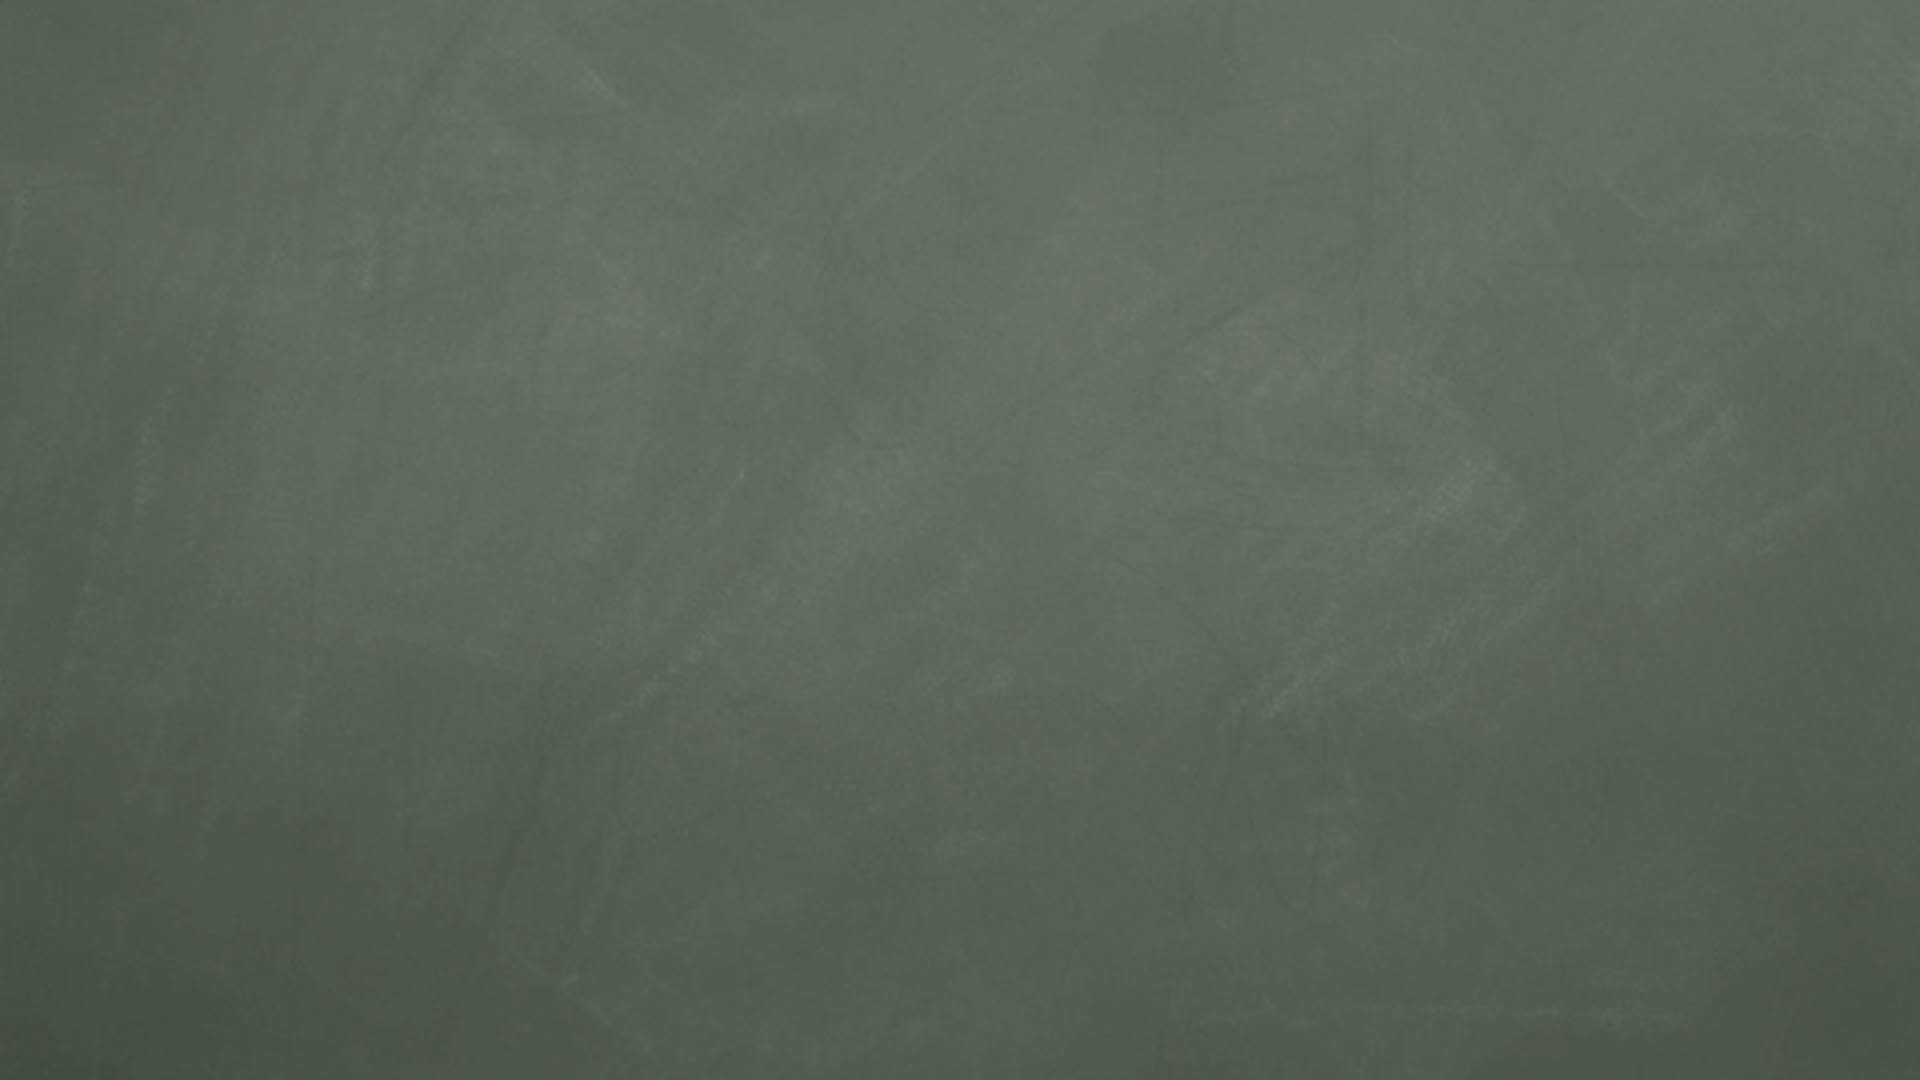
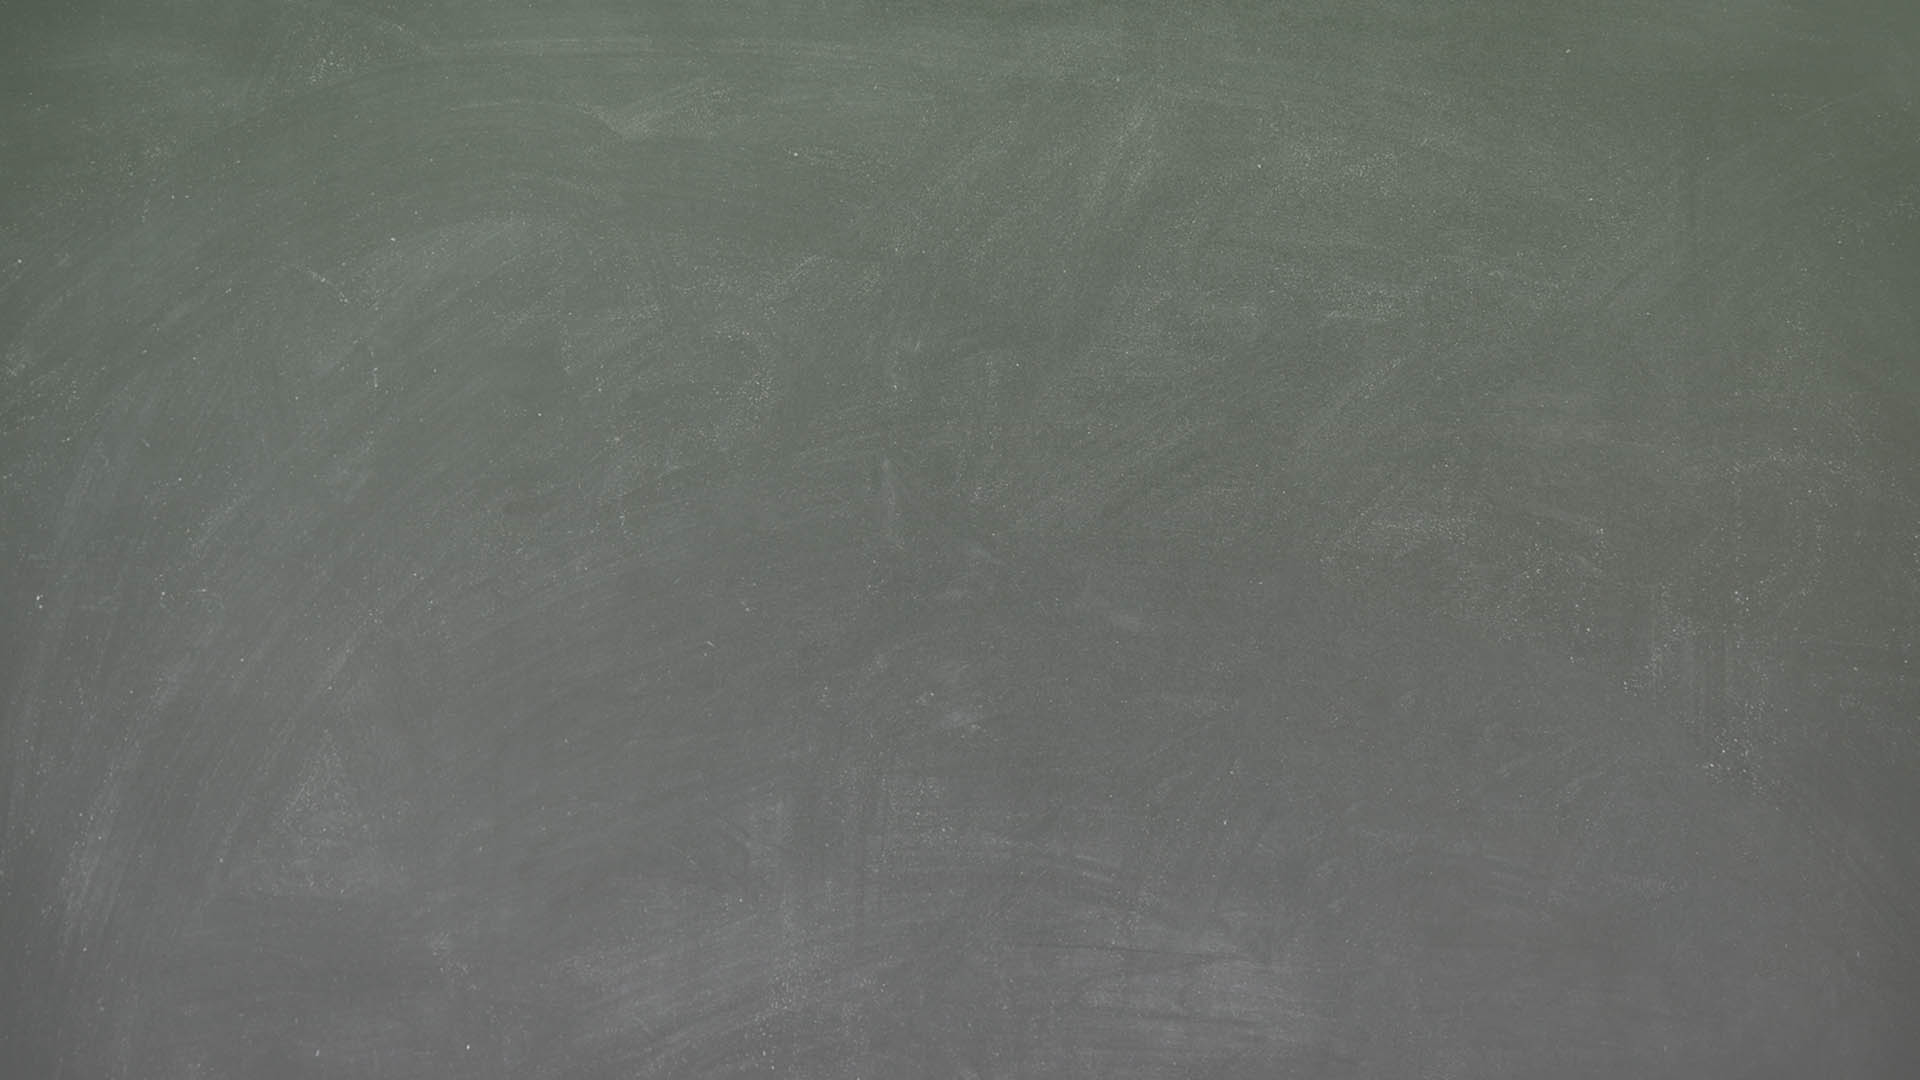
Changed background image. Changed footer text. Changed navbar color and thickness of list items. Changed font size to 5 and color to white. Added a transparent dark div to the homepage. Changed result table background color and transparency. Attempted navbar dropdown element.

Changed region(s): [[0.0, 0.4583, 1.0, 1.0], [0.0312, 0.4278, 0.0625, 0.4889], [0.4688, 0.6417, 0.5, 0.6722]]

diff --git a/templates/layout.html b/templates/layout.html
@@ -50,11 +50,12 @@
             </button>
             <div class="collapse navbar-collapse" id="navbar">
                     <ul class="navbar-nav mr-auto mt-2">
-                        <li class="nav-item"><a class="nav-link" href="/differentiation">Differentiation</a></li>
-                        <li class="nav-item"><a class="nav-link" href="/integration">Integration</a></li>
-                        <li class="nav-item"><a class="nav-link" href="/maxmin">Max/Min</a></li>
-                        <li class="nav-item"><a class="nav-link" href="/aprox">Linearization</a></li>
-                        <li class="nav-item"><a class="nav-link" href="/riemann">Riemann</a></li>
+						
+                        <li class="nav-item"><a class="nav-link" href="/differentiation"><b>Differentiation</b></a></li>
+                        <li class="nav-item"><a class="nav-link" href="/integration"><b>Integration</b></a></li>
+                        <li class="nav-item"><a class="nav-link" href="/maxmin"><b>Max/Min</b></a></li>
+                        <li class="nav-item"><a class="nav-link" href="/aprox"><b>Linearization</b></a></li>
+                        <li class="nav-item"><a class="nav-link" href="/riemann"><b>Riemann</b></a></li>
                     </ul>
                     <!-- <ul class="navbar-nav ml-auto mt-2">
                         <li class="nav-item"><a class="nav-link" href="/logout">Log Out</a></li>
@@ -80,7 +81,10 @@
         </main>
 
         <footer class="small text-center text-muted">
-            Huge thanks to the staff at Harvard's <a href="https://cs50.harvard.edu/college/">CS50</a>.
+			<font color="#212121">
+				<b>© 2020 TayMath - Created by TSB and <a href="https://twitter.com/ruhphorte" style="color:black" target="_blank">Ruh</a> -
+				Huge thanks to the staff at Harvard's <a href="https://cs50.harvard.edu/college/" style="color:black" target="_blank">CS50</a>.</b>
+			</font>
         </footer>
 
     </body>

diff --git a/templates/riemann.html b/templates/riemann.html
@@ -5,13 +5,14 @@
 {% endblock %}
 
 {% block main %}
+<font color="white" size="5">
     <span>Function you would like to integrate:</span>
     <form action="/riemann" method="post">
         <div class = "form-group">
             <input autocomplete="off" autofocus class="form-control" name="function" placeholder="Function" type="text" id="function">
         </div>
         <p id="jp">Your Input Will Appear Here</p>
-        <span>Range of values (a,b):</span>
+        <span>Range of values <i>(a,b)</i>:</span>
         <div class = "form-group">
             <input autocomplete="off" autofocus class="form-control" name="lowerbound" placeholder="Lowerbound a" type="text" id="lowerbound">
             <input autocomplete="off" autofocus class="form-control" name="upperbound" placeholder="Upperbound b" type="text" id="upperbound">
@@ -20,14 +21,18 @@
         <div class="form-group">
             <input autocomplete="off" autofocus class="form-control" name="subintervals" placeholder="Subintervals" type="text" id="subintervals">
         </div>
+		</font>
+		<font color="white">
         <div class="radio">
-          <label><input type="radio" name="sumtype" checked value="1">Left Riemann Sum</label>
+          <label><input type="radio" name="sumtype" checked value="1"> Left Riemann Sum</label>
         </div>
         <div class="radio">
-          <label><input type="radio" name="sumtype" value="2">Right Riemann Sum</label>
+          <label><input type="radio" name="sumtype" value="2"> Right Riemann Sum</label>
         </div>
+		</font>
         <button class="btn btn-primary" type="submit">Summation</button>
     </form>
+
 
     <script>
         let value = $("#function").val();

diff --git a/templates/aprox.html b/templates/aprox.html
@@ -5,13 +5,14 @@
 {% endblock %}
 
 {% block main %}
+<font color="white" size="5">
     <span>Function you would like to Approximate:</span>
     <form action="/aprox" method="post">
         <div class = "form-group">
             <input autocomplete="off" autofocus class="form-control" name="function" placeholder="Function" type="text" id="function">
         </div>
         <p id="jp">Your Input Will Appear Here</p>
-        <p>To create the Linearization of f at a, L(x) = f(a) + f'(a)(x-a), we need an easy to calculate value, a,
+        <p>To create the Linearization of <i><b>f</i></b> at <i><b>a</i></b>, <i><b>L(x) = f(a) + f'(a)(x-a)</i></b>, we need an easy to calculate value, a,
             and a difficult to find value for x</p>
         <div class = "form-group">
             <input autocomplete="off" autofocus class="form-control" name="easy" placeholder="Easy Value a" type="text" id="easy">
@@ -19,6 +20,7 @@
         </div>
         <button class="btn btn-primary" type="submit">Approximate</button>
     </form>
+</font>
 
     <script>
         let value = $("#function").val();

diff --git a/templates/index.html b/templates/index.html
@@ -1,10 +1,12 @@
 {% extends "layout.html" %}
 
 {% block title %}
-    Index
+    Home
 {% endblock %}
 
 {% block main %}
+<div class="col-sm-12" style="background-color: #0f11175c; padding: 20px; border-radius: 8px">
+<font color="white">
     <p>This is a website dedicated to making the lives of calculus students easier, if ever so slightly.</p>
     <P>All function inputs will be taken assuming 'x' as your variable. All other letters will be treated as constants</P>
     <p>That noted, you may enter terms for well known constants and they will likely be accounted for</p>
@@ -12,4 +14,7 @@
     <p>As a once struggling calculus student, I highly recommend this site be used either to check your work or as a tool
         to understand the steps behind those problems which you failed in solving alone</p>
     <p>Good luck!</p>
+</font>
 {% endblock %}
+</div>
+

diff --git a/templates/summed.html b/templates/summed.html
@@ -5,9 +5,12 @@
 {% endblock %}
 
 {% block main %}
-    <span><font size="5">Approximating the integral of $f(x) = {{ value }}$ from ${{ lb }}$ to ${{ ub }}$ using ${{ si }}$ subintervals</font></span>
+	<font size="5" color="white">
+    <span>Approximating the integral of $f(x) = {{ value }}$ from ${{ lb }}$ to ${{ ub }}$ using ${{ si }}$ subintervals</span>
+	</font>
 	<br>
 	<br>
+	<font color="white">
     <table class="table table-hover" action="optimized">
         <tbody>
             <tr class="bg-dark text-white">
@@ -48,4 +51,5 @@
             </tr>
         </tbody>
     </table>
+	</font>
 {% endblock %}

diff --git a/templates/optimized.html b/templates/optimized.html
@@ -5,10 +5,13 @@
 {% endblock %}
 
 {% block main %}
+	<font color="white" size="5">
     <div>
         <p>Your function is $f(x) = {{ value }}$</p>
         <p>Your maximum value is ${{ maximum }}$ and your minimum value is ${{ newvar }}$</p>
     </div>
+	</font>
+	<font color="white">
     <table class="table table-hover" action="optimized">
       <tbody>
         <tr class="bg-dark text-white">
@@ -61,4 +64,5 @@
         </tr>
       </tbody>
     </table>
+	</font>
 {% endblock %}

diff --git a/templates/differentiation.html b/templates/differentiation.html
@@ -5,6 +5,7 @@
 {% endblock %}
 
 {% block main %}
+	<font color="white" size="5">
     <p>Function you would like to Derive: </p>
     <form action="/differentiation" method="post">
         <div class = "form-group">
@@ -13,7 +14,8 @@
         <p id="jp">Your Input Will Appear Here</p>
         <button class="btn btn-primary" type="submit">Differentiate</button>
     </form>
-
+	</font>
+	
     <script>
         let value = $("#function").val();
         $(document).ready(function(){

diff --git a/templates/aproxd.html b/templates/aproxd.html
@@ -5,10 +5,13 @@
 {% endblock %}
 
 {% block main %}
+	<font color="white" size="5">
     <div>
         <p>Your function is $f(x) = {{ value }}$</p>
         <p>Your Linear Approximation of $f(x)$ at $x = {{ h }}$ is ${{ lh }}$</p>
     </div>
+	</font>
+	<font color="white">
         <table class="table" action="optimized">
       <tbody>
         <tr class="bg-dark text-white">
@@ -57,4 +60,5 @@
         </tr>
       </tbody>
     </table>
+	</font>
 {% endblock %}

diff --git a/templates/integration.html b/templates/integration.html
@@ -5,6 +5,7 @@
 {% endblock %}
 
 {% block main %}
+<font color="white" size="5">
     <p>Function you would like to Integrate: </p>
     <form action="/integration" method="post">
         <div class = "form-group">
@@ -13,6 +14,7 @@
         <p id="jp">Your Input Will Appear Here</p>
         <button class="btn btn-primary" type="submit">Integrate</button>
     </form>
+</font>
 
     <script>
         let value = $("#function").val();

diff --git a/templates/maxmin.html b/templates/maxmin.html
@@ -5,6 +5,7 @@
 {% endblock %}
 
 {% block main %}
+<font color="white" size="5">
     <span>Function you would like to Max/Min:</span>
     <form action="/maxmin" method="post">
         <div class = "form-group">
@@ -17,6 +18,7 @@
         </div>
         <button class="btn btn-primary" type="submit">Optimize</button>
     </form>
+</font>
 
     <script>
         let value = $("#function").val();

diff --git a/static/styles.css b/static/styles.css
@@ -15,12 +15,12 @@ background-attachment: fixed;
 }
 
 .table-secondary, .table-secondary>td, .table-secondary>th {
-    background-color: #b6c59d1c;
+    background-color: #0e170114 !important;
 }
 
 .bg-light {
 	/* navbar background set to lighter green*/
-	background-color: #959a94 !important;
+	background-color: #b9c3b8 !important;
 }
 
 .border {

diff --git a/templates/integrated.html b/templates/integrated.html
@@ -6,7 +6,9 @@
 
 {% block main %}
     <div>
+		<font color="white" size="5">
         <p>Your Equation is: ${{ value }}$</p>
         <p>Your integral is: ${{ fintegral }}$</p>
+		</font>
     </div>
 {% endblock %}
